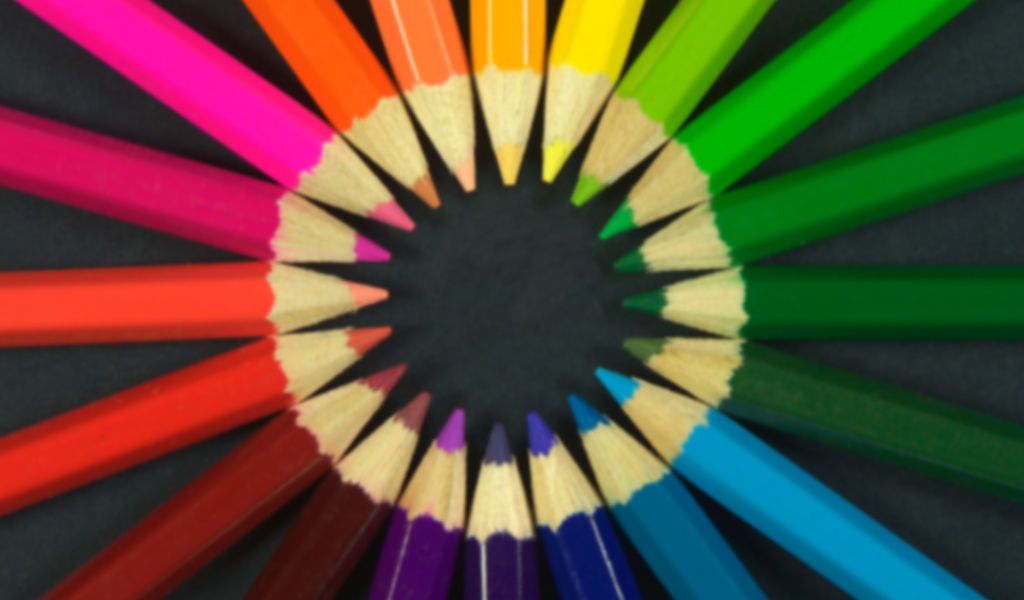
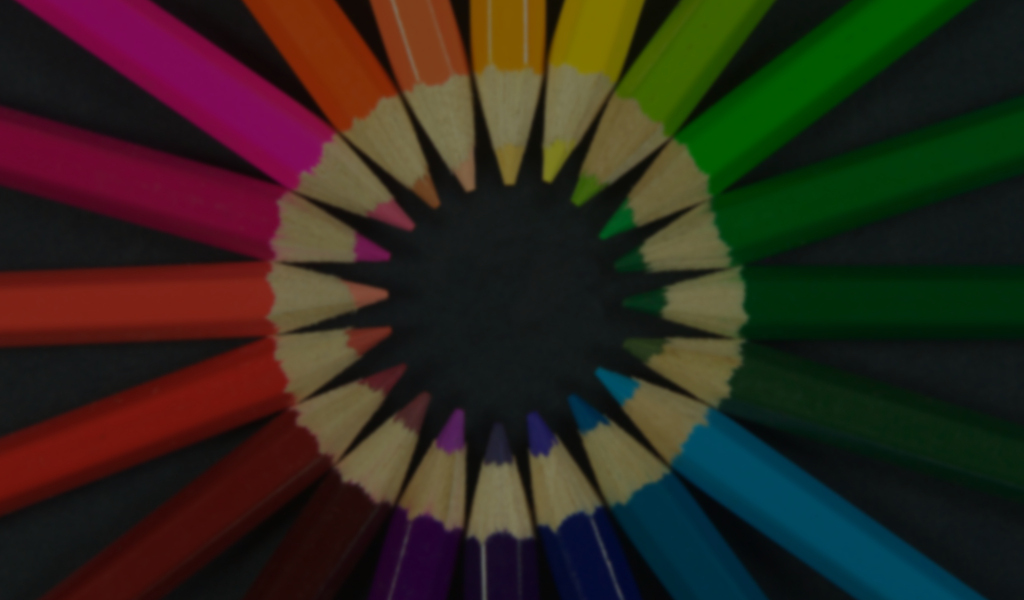
Hero with already darkened background

diff --git a/style.css b/style.css
@@ -170,7 +170,7 @@ i {
     margin-bottom: 0;
     padding-top: 3em;
     padding-bottom: 3em;
[1 lines of base64/hex data omitted]
+    background: url(/bg.jpg) center center no-repeat #313a45;
     background-size: cover;
     color: #fff;
     font-size: 2.5em;
